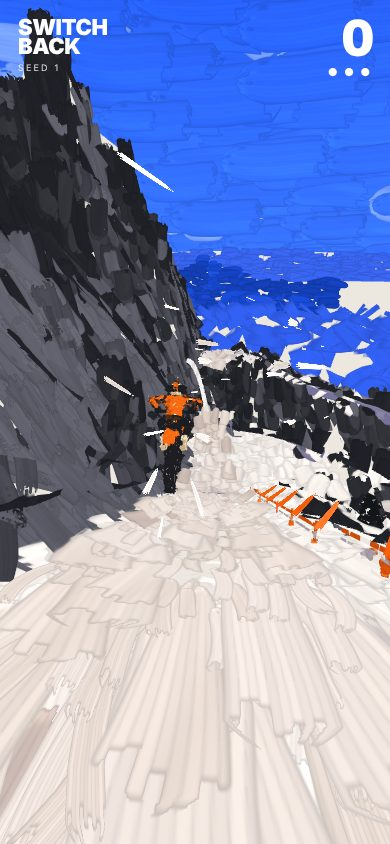
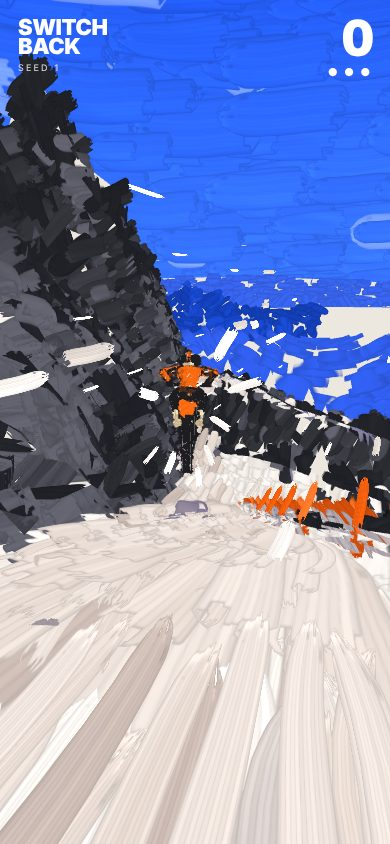
lab/switchback painted: the speed back in the marks; track and shadow laid flat
The grey moving strokes just ahead of the rider were your track and the
rider's shadow, painted as standing things (both sides, turned up to the
eye) and rebuilt each frame; they're laid flat now, as the ground is.

Dynamism: the screen-built stretch was the swinging kind and went with the
fix; now at pace every stroke turns on its own face toward the eye's
smoothed motion in the world (one way for all, so it's steady) and draws
out by as far as the eye goes in 0.09 s, so the ground and rock fall into
line and stream past. Shards brushed with the solid flat stamp, wider.

Claude-Session: https://claude.ai/code/session_01XxjdrEubiC3ZZ3ppUeUc93

diff --git a/cells/lab/client/switchback/paint.ts b/cells/lab/client/switchback/paint.ts
@@ -102,9 +102,10 @@ export function lineOf(c: Course, s0: number, s1: number) {
  *   the face on rock);
  * - the backdrop (the ranges, the valley): big level marks, one pass, always laid;
  * - things (the fence, the posts, the pines, the kickers, the rider, a flag): small, sized by their faces, along each
- *   face's longest edge, painted on both sides.
+ *   face's longest edge, painted on both sides; what lies flat on the ground (`flat`: your track, a shadow) is laid as
+ *   the ground is.
  */
-export function strokesOver(verts: Float32Array, seed: number, line: number[] | null, cap = 26000, moving = false, place = 0): Float32Array {
+export function strokesOver(verts: Float32Array, seed: number, line: number[] | null, cap = 26000, moving = false, place = 0, flat = false): Float32Array {
   const out: number[] = [];
   const n = verts.length / 12;
   for (let t = 0; t < n && out.length / STROKE < cap; t++) {
@@ -142,8 +143,11 @@ export function strokesOver(verts: Float32Array, seed: number, line: number[] | 
     if (thing) {
       // (a thing: along its face's longest edge, sized by the face; both sides)
       const e = [[ux, uy, uz], [vx, vy, vz], [cx - bx, cy - by, cz - bz]].sort((p, q) => Math.hypot(q[0], q[1], q[2]) - Math.hypot(p[0], p[1], p[2]))[0], el = Math.hypot(e[0], e[1], e[2]) || 1;
-      const Ls = Math.max(0.07, Math.min(moving ? 0.5 : 1.4, Math.sqrt(area) * 1.1));
-      emit(e[0] / el, e[1] / el, e[2] / el, Ls, Ls * 0.5, 3.2, 1, [0, 1, 2, 4], 0.35, 0.4, 3);
+      const Ls = Math.max(0.07, Math.min(moving ? (flat ? 1.2 : 0.5) : 1.4, Math.sqrt(area) * 1.1));
+      // (a flat thing lying on the ground (your track, a shadow) is laid as the ground is: flat on it, one side; a
+      // standing thing, both sides, turning to the eye)
+      if (flat && ny < 0) { nx = -nx; ny = -ny; nz = -nz; }
+      emit(e[0] / el, e[1] / el, e[2] / el, Ls, Ls * (flat ? 0.35 : 0.5), flat ? 2.2 : 3.2, 1, flat ? [0, 1] : [0, 1, 2, 4], 0.35, flat ? 0.2 : 0.4, flat ? 0 : 3);
       continue;
     }
     // (the face's normal: up, or (a steep face) toward the road it's seen from)
@@ -189,7 +193,7 @@ const SEG = 8;
 const VS = `#version 300 es
 layout(location=0) in vec2 aQ; layout(location=1) in vec4 a0; layout(location=2) in vec4 a1; layout(location=3) in vec4 a2; layout(location=4) in vec4 a3; layout(location=5) in vec4 a4;
 uniform mat4 uVP, uPrev; uniform vec3 uOff, uEye, uSun; uniform vec3 uPal[84]; uniform float uFog, uK, uMinW, uStretch, uDens, uGrow, uReveal; uniform vec2 uRes, uFront;
-uniform vec3 uSkyLo, uSkyHi, uSkyPale;
+uniform vec3 uSkyLo, uSkyHi, uSkyPale, uSmear;
 out vec2 vUv; out vec3 vA; out vec3 vB; flat out float vStamp; out float vFresh;
 float h(float s, float k){ return fract(sin(s*k)*43758.5453); }
 void main(){
@@ -209,20 +213,21 @@ void main(){
   // The stroke is laid in the world, on its face, along its own way: nothing about how it lies comes from the screen, so
   // it can't swing as the eye moves. Across it, its width turns from lying on the face toward facing the eye as it gets
   // further off, so it never thins to a sliver (after Brush Rush).
+  // (the speed: at pace the stroke turns, on its own face, toward the way the eye is going (one way for every stroke, the
+  // eye's smoothed motion in the world, so it holds steady), and draws out by as far as the eye's gone in a moment: the
+  // ground and the rock fall into line with the motion, and stream past)
+  float smearL = 0.;
+  if (!sky && a4.z < .5 && dot(uSmear, uSmear) > 1e-3) {
+    vec3 sd = uSmear - n*dot(uSmear, n); float sl = length(sd);
+    if (sl > 1e-3) { sd /= sl; if (dot(sd, T) < 0.) sd = -sd; T = normalize(mix(T, sd, clamp(sl/2.4, 0., 1.)*.9)); smearL = sl; }
+  }
   vec3 Bn = normalize(cross(n, T)), Be = cross(T, V); float bl = length(Be); Be = bl > .001 ? Be/bl : Bn; if (dot(Be, Bn) < 0.) Be = -Be;
   float face = sky ? 1. : both ? .35 + .5*smoothstep(4., 40., dist) : .15 + .75*smoothstep(5., 70., dist);
   vec3 Wd = normalize(mix(Bn, Be, face));
   // its size: thinned out, the ones kept are bigger; never thinner on the picture than a few pixels, never more than a part of it
   float grow = inversesqrt(max(keep, .3)), k = uK*uRes.y*.5/c.w;
   float len = a1.w*grow, wid = a2.w*grow;
-  wid = clamp(wid, uMinW/k, uRes.y*.19/k); len = clamp(len, wid*1.6, uRes.y*.5/k);
-  // (stretched along its own way, as far as it moves along it on the picture since the last frame: longer, never turned)
-  vec4 cp = uPrev*vec4(w, 1.);
-  if (cp.w > .3 && uStretch > 0. && a4.z < .5) {
-    vec4 ct = uVP*vec4(w + T, 1.); vec2 px = uRes*.5, dT = (ct.xy/max(ct.w, .05) - c.xy/c.w)*px, m = (c.xy/c.w - cp.xy/cp.w)*px;
-    float dl = length(dT), ml = length(m);
-    if (dl > 1e-3 && ml > 4.) len += min(ml, uRes.y*.12)/k*uStretch*abs(dot(dT/dl, m/ml))*smoothstep(4., 40., ml)*(sky ? .3 : 1.);
-  }
+  wid = clamp(wid, uMinW/k, uRes.y*.19/k); len = clamp(len, wid*1.6, uRes.y*.5/k) + min(smearL, uRes.y*.3/k);
   float u = aQ.x*g, c2 = 2.*u - 1., s = (u - .5)*len, bend = a3.z*len*(1. - c2*c2)*.25;
   vec3 p = w + T*s + Wd*(aQ.y*wid*.5 + bend);
   vec4 cq = uVP*vec4(p, 1.);
@@ -293,7 +298,7 @@ export class Painter {
     const p = gl.createProgram()!; gl.attachShader(p, sh(gl.VERTEX_SHADER, VS)); gl.attachShader(p, sh(gl.FRAGMENT_SHADER, FS)); gl.linkProgram(p);
     if (!gl.getProgramParameter(p, gl.LINK_STATUS)) throw new Error(gl.getProgramInfoLog(p) ?? 'link');
     this.prog = p;
-    for (const k of ['uVP', 'uPrev', 'uOff', 'uEye', 'uSun', 'uPal', 'uFog', 'uK', 'uMinW', 'uStretch', 'uDens', 'uRes', 'uAtlas', 'uSkyLo', 'uSkyHi', 'uSkyPale', 'uFront', 'uGrow', 'uReveal']) this.u[k] = gl.getUniformLocation(p, k);
+    for (const k of ['uSmear', 'uVP', 'uPrev', 'uOff', 'uEye', 'uSun', 'uPal', 'uFog', 'uK', 'uMinW', 'uStretch', 'uDens', 'uRes', 'uAtlas', 'uSkyLo', 'uSkyHi', 'uSkyPale', 'uFront', 'uGrow', 'uReveal']) this.u[k] = gl.getUniformLocation(p, k);
     gl.useProgram(p);
     gl.uniform3fv(this.u.uPal, palette); gl.uniform3fv(this.u.uSun, new Float32Array(sun));
     gl.uniform3f(this.u.uSkyLo, 0.2, 0.42, 0.95); gl.uniform3f(this.u.uSkyHi, 0.015, 0.2, 0.82); gl.uniform3f(this.u.uSkyPale, 0.62, 0.72, 0.98);
@@ -317,9 +322,10 @@ export class Painter {
     for (const i of [0, 1]) { const want = s + this.lead[i], f = this.front[i]; if (want > f) this.front[i] = f + Math.max((want - f) * Math.min(1, dt * 1.6), Math.min(want - f, 20 * dt)); }
   }
   /** set up for a frame: the eye, its matrices (now and the last frame's), the canvas */
-  begin(vp: Float32Array, prev: Float32Array, eye: number[], projY: number, w: number, h: number, dpr: number) {
+  begin(vp: Float32Array, prev: Float32Array, eye: number[], projY: number, w: number, h: number, dpr: number, smear: number[] = [0, 0, 0]) {
     const gl = this.gl;
     gl.useProgram(this.prog);
+    gl.uniform3f(this.u.uSmear, smear[0] * this.stretch, smear[1] * this.stretch, smear[2] * this.stretch);
     gl.uniformMatrix4fv(this.u.uVP, false, vp); gl.uniformMatrix4fv(this.u.uPrev, false, prev);
     gl.uniform3fv(this.u.uEye, new Float32Array(eye)); gl.uniform1f(this.u.uK, projY); gl.uniform2f(this.u.uRes, w, h);
     gl.uniform1f(this.u.uMinW, 2.4 * dpr); gl.uniform1f(this.u.uStretch, this.stretch); gl.uniform1f(this.u.uDens, this.dens);
@@ -364,10 +370,10 @@ export class Brush2D {
     return c;
   }
   /** a stroke from its base at `a` (half-width w) to its point at `b`, in stamp `st` */
-  wedge(ctx: CanvasRenderingContext2D, a: number[], b: number[], w: number, col: string, st = 7) {
+  wedge(ctx: CanvasRenderingContext2D, a: number[], b: number[], w: number, col: string, st = 0) {
     const dx = b[0] - a[0], dy = b[1] - a[1], L = Math.hypot(dx, dy);
     if (L < 1) return;
-    const W = Math.max(1.6, w * 2.6), cell = [(st % STAMP.COLS) * STAMP.W, Math.floor(st / STAMP.COLS) * STAMP.H];
+    const W = Math.max(2, w * 3), cell = [(st % STAMP.COLS) * STAMP.W, Math.floor(st / STAMP.COLS) * STAMP.H];
     ctx.save(); ctx.translate(a[0], a[1]); ctx.rotate(Math.atan2(dy, dx));
     ctx.drawImage(this.sheet(col), cell[0], cell[1], STAMP.W, STAMP.H, -L * 0.03, -W / 2, L * 1.06, W);
     ctx.restore();

diff --git a/cells/lab/client/switchback/render.ts b/cells/lab/client/switchback/render.ts
@@ -95,7 +95,7 @@ export class Renderer {
   /** painted (`paint=1`, paint.ts): the mountain laid in brush strokes over its facets; and the strokes, built with each
    * chunk, the backdrop's and the sky's once */
   paint = false; painter: Painter | null = null; stretchWanted = 1; leadWanted: [number, number] | null = null;
-  private strokes = new Map<number, Strokes>(); private backStrokes: Strokes[] = []; private moving: Strokes | null = null; private prevEye: number[] | null = null; private skyS: Strokes | null = null; private prevVP: Mat | null = null;
+  private strokes = new Map<number, Strokes>(); private backStrokes: Strokes[] = []; private moving: Strokes | null = null; private prevEye: number[] | null = null; private prevEye0: number[] | null = null; private eyeV = [0, 0, 0]; private skyS: Strokes | null = null; private prevVP: Mat | null = null;
   /** your own track, fed after each step of the sim */
   readonly trail: Trail;
   vp: Mat = new Float32Array(16); W = 1; H = 1; dpr = 1;
@@ -156,7 +156,12 @@ export class Renderer {
     // (the last frame's eye, for the strokes' stretch: none on a held frame, or when the eye's jumped (put back, a cut))
     const jump = !this.prevEye || Math.hypot(view.eye[0] - this.prevEye[0], view.eye[1] - this.prevEye[1], view.eye[2] - this.prevEye[2]) > 8;
     const prev = this.prevVP && dt > 0 && !jump ? this.prevVP : this.vp; this.prevVP = this.vp; this.prevEye = view.eye.slice();
-    const pt = this.painter, paintBegin = () => pt!.begin(this.vp, prev, view.eye, 1 / Math.tan(fov / 2), this.canvas.width, this.canvas.height, this.dpr);
+    // (the eye's motion, smoothed (not its shake), for the strokes' smear: where the world was, as the eye sees it, 0.09 s ago)
+    if (dt > 0 && !jump && this.prevEye0) for (let k = 0; k < 3; k++) this.eyeV[k] += ((view.eye[k] - this.prevEye0[k]) / dt - this.eyeV[k]) * Math.min(1, dt * 6);
+    if (dt === 0 || jump) this.eyeV = dt === 0 ? this.eyeV : [0, 0, 0];
+    this.prevEye0 = view.eye.slice();
+    const smear = dt > 0 ? this.eyeV.map((v) => v * 0.09) : [0, 0, 0];
+    const pt = this.painter, paintBegin = () => pt!.begin(this.vp, prev, view.eye, 1 / Math.tan(fov / 2), this.canvas.width, this.canvas.height, this.dpr, smear);
     gl.viewport(0, 0, this.canvas.width, this.canvas.height);
     const sky = hex(SKY); gl.clearColor(sky[0], sky[1], sky[2], 1); gl.clear(gl.COLOR_BUFFER_BIT | gl.DEPTH_BUFFER_BIT);
     gl.enable(gl.DEPTH_TEST); gl.disable(gl.CULL_FACE);
@@ -213,7 +218,7 @@ export class Renderer {
       // (the ruts, the track, the flags and the falls are windows sliding along the way: their strokes seeded by place)
       // (not the gouges: they're cut to the eye, finer near it and broader away, so their faces change as you ride and
       // strokes on them couldn't hold still; the road's own strokes run along it instead)
-      const parts = [new Float32Array(0), strokesOver(trackV, 13, null, 4000, true, 0.1), shadowOn ? strokesOver(sh, 17, null, 4000, true) : new Float32Array(0), strokesOver(flagsV, 19, null, 6000, true, 1.5), strokesOver(fallsV, 23, null, 6000, true, 2), strokesOver(body, 29, null, 9000, true)];
+      const parts = [new Float32Array(0), strokesOver(trackV, 13, null, 4000, true, 0.1, true), shadowOn ? strokesOver(sh, 17, null, 4000, true, 0, true) : new Float32Array(0), strokesOver(flagsV, 19, null, 6000, true, 1.5), strokesOver(fallsV, 23, null, 6000, true, 2), strokesOver(body, 29, null, 9000, true)];
       const all = new Float32Array(parts.reduce((a, p) => a + p.length, 0)); let at = 0;
       for (const p of parts) { all.set(p, at); at += p.length; }
       if (!this.moving) this.moving = pt.make(all, true); else this.moving.set(all);

diff --git a/cells/lab/static/switchback.md b/cells/lab/static/switchback.md
@@ -114,7 +114,7 @@ An experiment in drawing the mountain as paint, after looking closely at a brush
 - **Covered.** The masses overlap; strokes thinned out with distance grow to cover what the others left; near the eye they stay broad (as a painting's foreground), never wider than a part of the screen. A few percent of paper shows, mostly at silhouettes.
 - **The facets' own colours.** Each stroke takes its face's band as the facets pick it (a little jittered), its bristles mixing toward the band next to it.
 - **Nothing pops.** A stroke whose turn to be thinned out with distance comes shrinks away rather than going at once. What's built afresh each frame keeps its strokes: the rider by its faces, the flags and the falls by where they are; the gouges aren't painted (they're cut to the eye, so their faces change as you ride), the road's own strokes running along it instead.
-- **Stretched along its own way.** Each stroke grows longer by as far as it moved along its own way on the picture since the last frame, never turned, so the speed is in the ground's marks (`stretch=0` none, `stretch=2` twice; not on what moves with you, nor on a held frame or a jump).
+- **The speed in the marks.** At pace every stroke turns, on its own face, toward the way the eye is going and draws out by as far as the eye goes in a moment (the eye's smoothed motion in the world: one way for every stroke, so they hold steady rather than swing), so the ground and the rock fall into line with the motion and stream past (`stretch=0` none, `stretch=2` twice; not on what moves with you, nor on a held frame or a jump). Your track and the rider's shadow are laid flat, as the ground is (they'd been painted as standing things, their strokes turned up to the eye: grey marks shifting just ahead of the rider).
 - **The speed layer too.** Its shards, the smears off the posts, the air off the rider and the debris are laid with the same stamps, tinted: a wedge becomes a long stroke tapering the same way, a chip a dab.
 
 The marks come from an atlas of brush stamps made when the page loads: each a brush of bristles, every bristle with its own load of paint, touching down and lifting a little apart from the rest, running dry along the stroke, and piling paint where it lifts. They.re drawn instanced, blended (premultiplied) in a fixed order, far chunks first.
